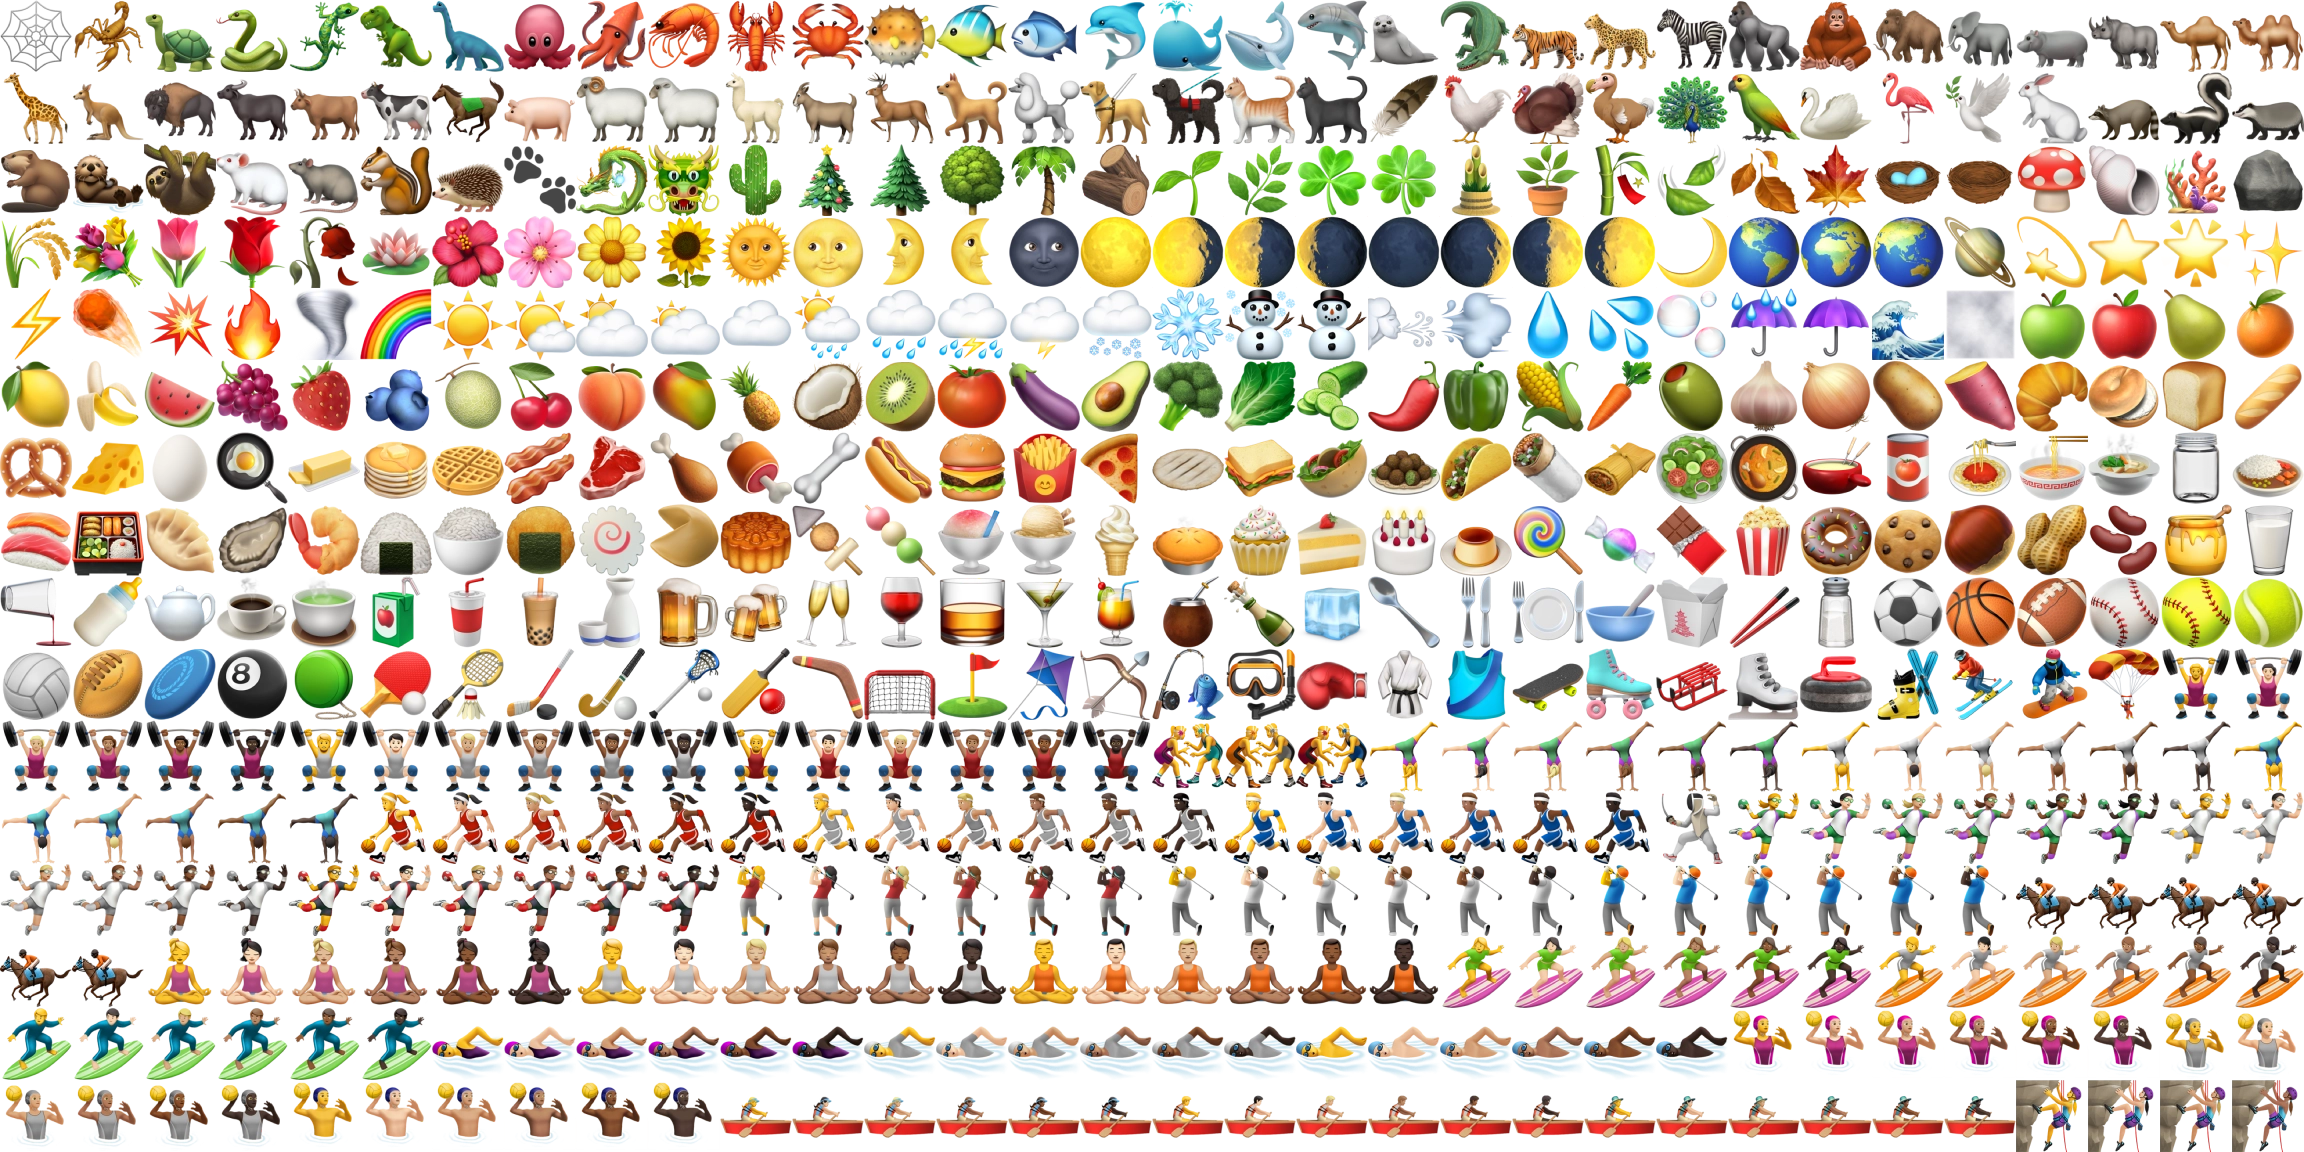
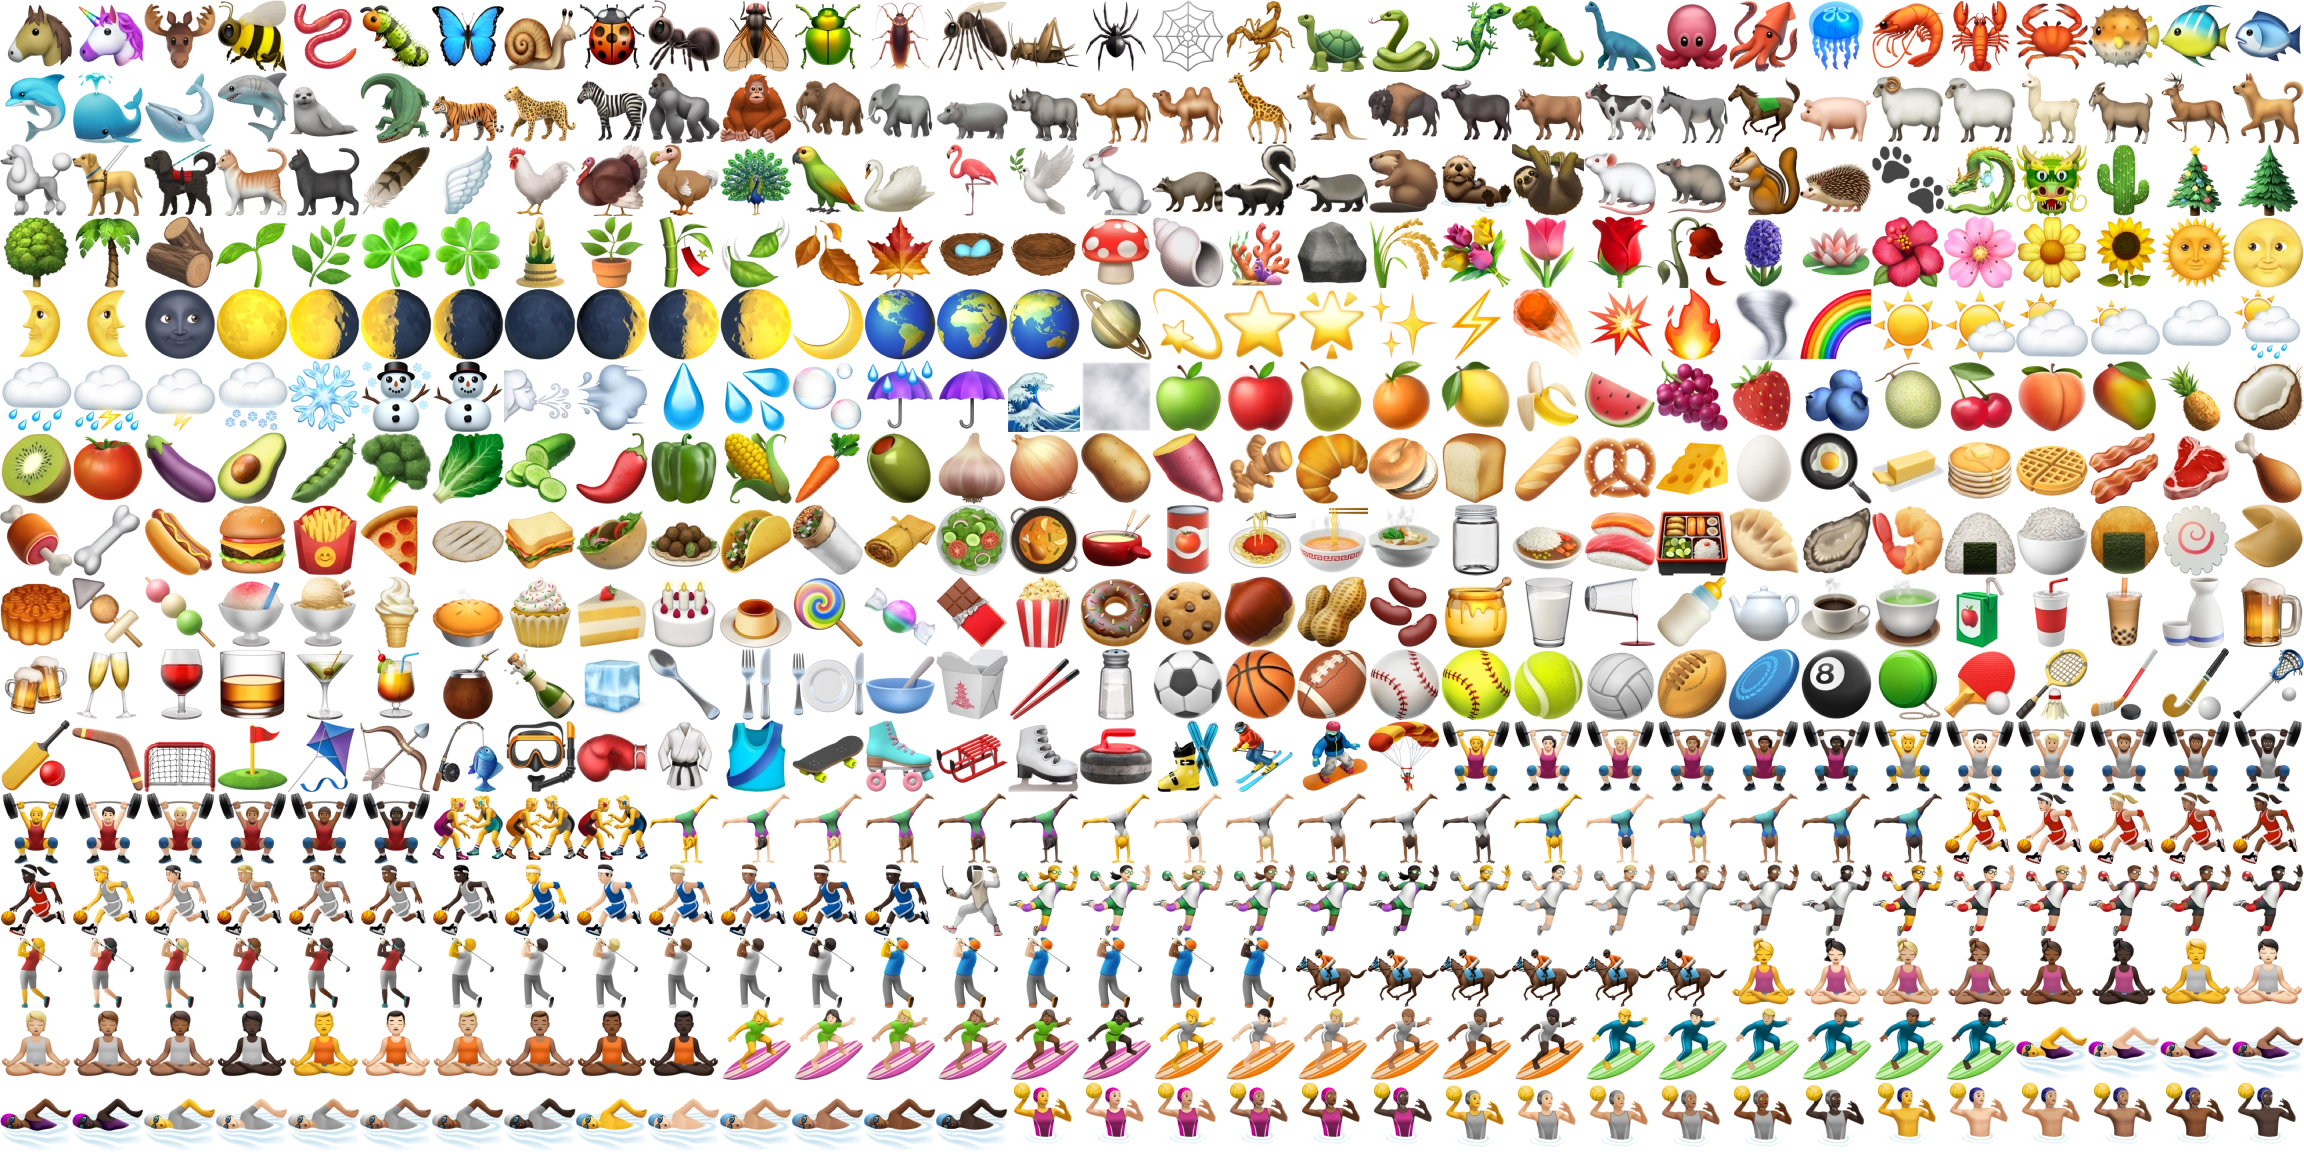
Version 4.9.9: Add support for Emoji 15.

diff --git a/Telegram/SourceFiles/chat_helpers/emoji_sets_manager.cpp b/Telegram/SourceFiles/chat_helpers/emoji_sets_manager.cpp
@@ -41,9 +41,9 @@ inline auto PreviewPath(int i) {
 
 const auto kSets = {
 	Set{ { 0,    0,         0, "Mac" },       PreviewPath(0) },
-	Set{ { 1, 1392, 8'184'590, "Android" },   PreviewPath(1) },
-	Set{ { 2, 1393, 5'413'219, "Twemoji" },   PreviewPath(2) },
-	Set{ { 3, 1394, 6'967'218, "JoyPixels" }, PreviewPath(3) },
+	Set{ { 1, 1804, 8'115'639, "Android" },   PreviewPath(1) },
+	Set{ { 2, 1805, 5'481'197, "Twemoji" },   PreviewPath(2) },
+	Set{ { 3, 1806, 7'047'594, "JoyPixels" }, PreviewPath(3) },
 };
 
 using Loading = MTP::DedicatedLoader::Progress;
